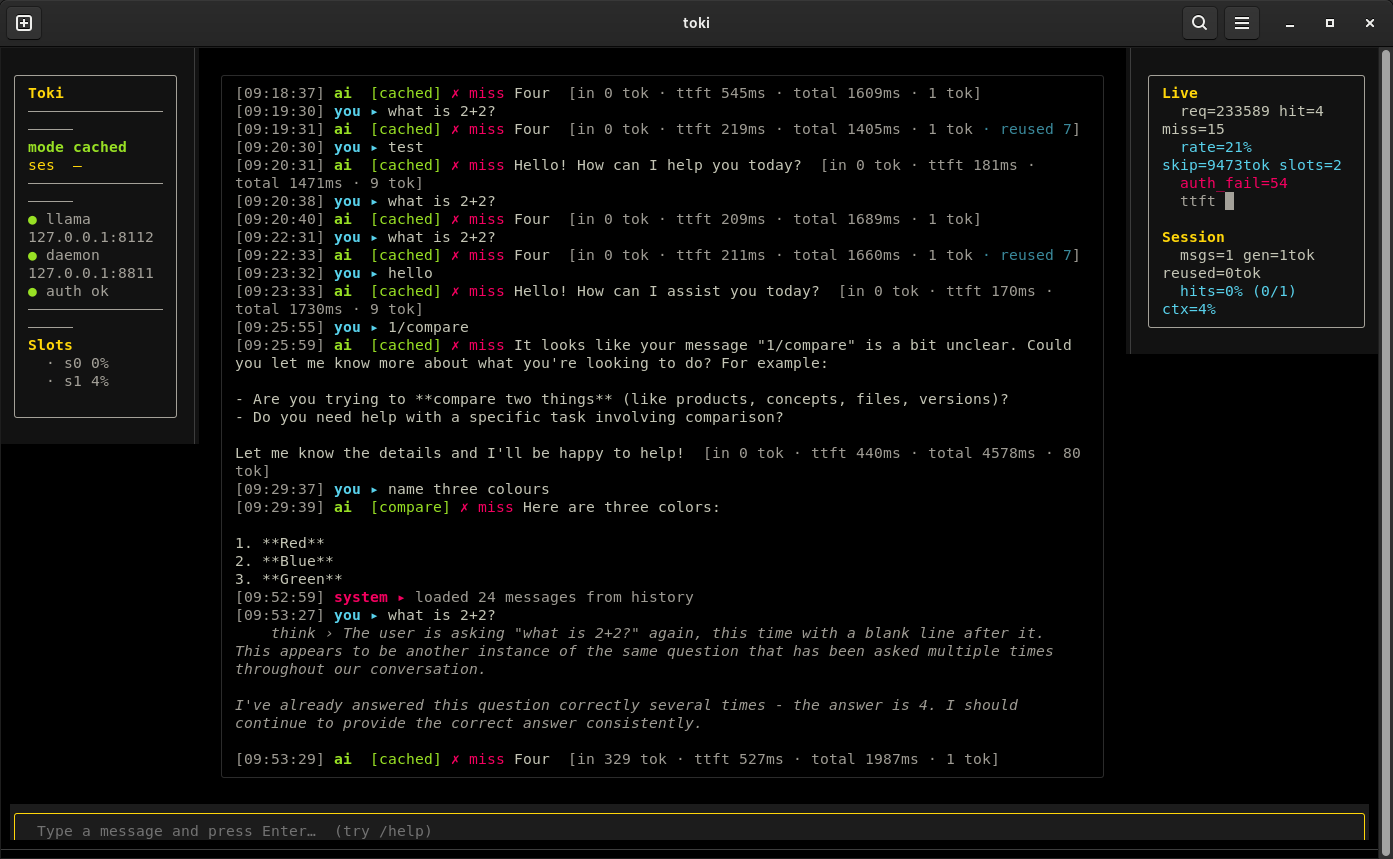
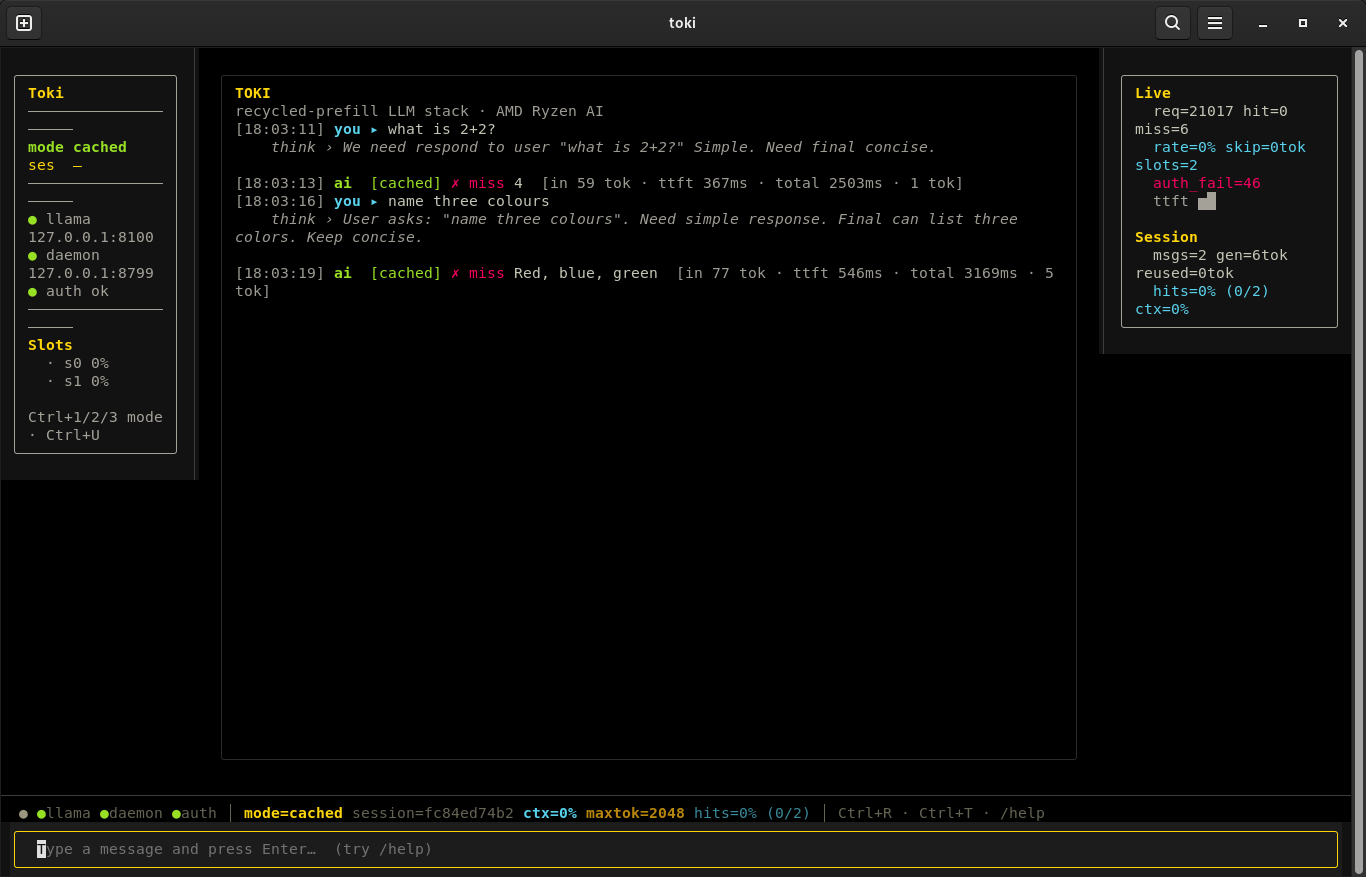
Re-take the terminal capture: the footer is real now
The chat image on the site was taken before the status bar rendered,
so it showed a TUI that no longer exists. The new capture is the same
session, the same stack, with the footer that the fix brought back.

diff --git a/site/index.html b/site/index.html
@@ -95,7 +95,7 @@
       </noscript>
     </figure>
     <figure class="demo-real reveal">
-      <img src="/img/tui-chat-live.png?v=1" alt="The toki chat in a terminal: a transcript with cache hits, reused tokens and timings, the model and daemon status on the left, live and session metrics on the right" width="1400" height="859" loading="lazy">
+      <img src="/img/tui-chat-live.png?v=2" alt="The toki chat in a terminal: a transcript with cache hits, reused tokens and timings, the model and daemon status on the left, live and session metrics on the right, and the footer with the mode, the session and the hit rate" width="1366" height="877" loading="lazy">
       <figcaption>
         The chat is the one screen we do not fake. This is the app, in a terminal: a real session, the
         prefix read back out of the cache, the timings the daemon reported.
